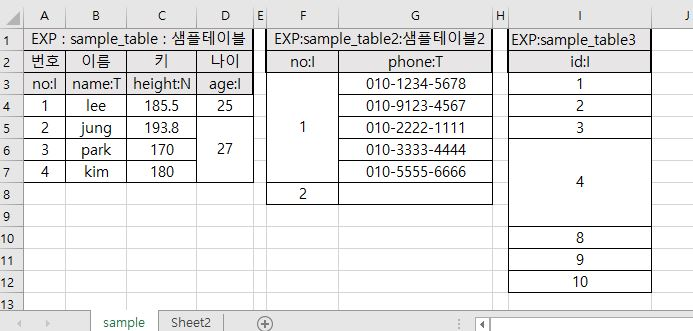
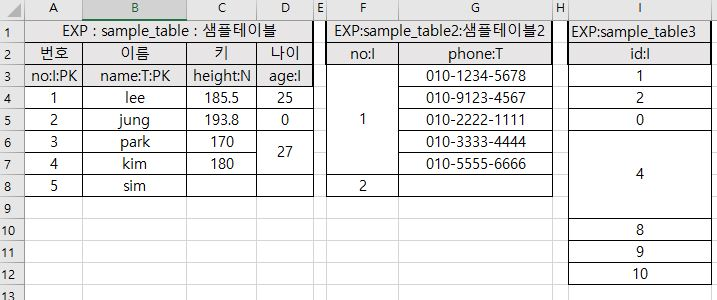
meta data 에 primary key 정보 추가

diff --git a/excel_export/extract.py b/excel_export/extract.py
@@ -66,7 +66,7 @@ def _get_table(sheet, header_info, merged_single_col_ranges):
 	"""
 	header_info를 바탕으로 sheet로부터 테이블 데이터(헤더정보포함) 추출한다
 	"""
-	cols = []
+	cols = [] # list of tuple (column name, data type, col_idx, pk)
 	data_row_pos = 0
 	for col_idx in xrange(header_info[1], header_info[2] + 1):
 		col1 = sheet.cell(1, col_idx).value
@@ -82,7 +82,9 @@ def _get_table(sheet, header_info, merged_single_col_ranges):
 			if data_row_pos == 0: data_row_pos = 3
 		
 		if arr_col:
-			cols.append((arr_col[0].strip(), arr_col[1].strip(), col_idx))
+			pk = True if len(arr_col) == 3 and arr_col[2] == 'PK' else False
+			cols.append((arr_col[0].strip(), arr_col[1].strip(), col_idx, pk))
+		
 	
 	data_rows = []
 	

diff --git a/excel_export/export.py b/excel_export/export.py
@@ -33,8 +33,12 @@ def convert_to_sqls(tables):
 		columns = []
 		for col_info in val[0]:
 			columns.append("`%s` %s" % (col_info[0], type_map[col_info[1]]))
+			
+		pks = [ "`%s`" % x[0] for x in val[0] if x[3] ]
+		if pks:
+			columns.append('PRIMARY KEY (%s)' % ", ".join(pks))
 		
-		sqls.append("CREATE TABLE `%s` (%s);" % (table_name, ",".join(columns)))
+		sqls.append("CREATE TABLE `%s` (%s);" % (table_name, ", ".join(columns)))
 		
 		for row in val[1]:
 			values = _convert_values(val[0], row)
